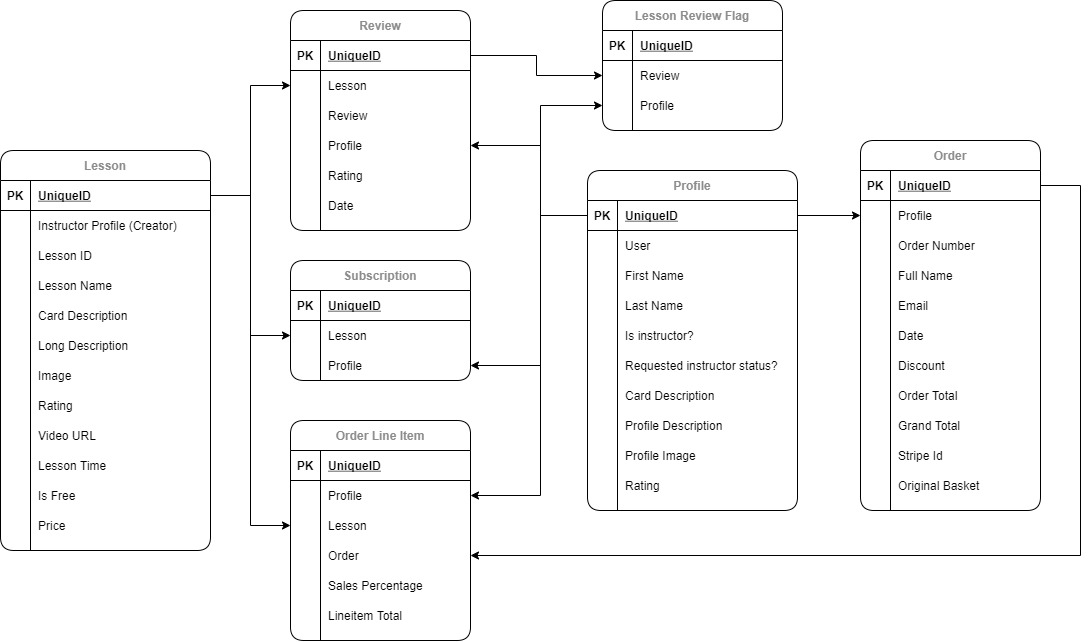
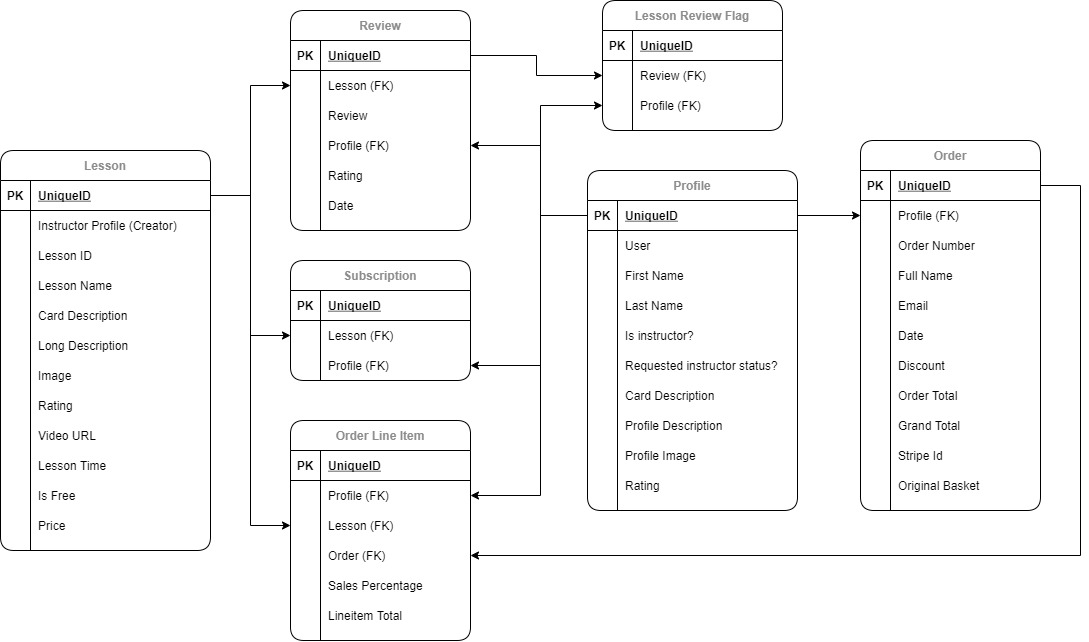
MINOR: Update database map with foreign keys

diff --git a/README.md b/README.md
@@ -421,7 +421,7 @@ Regarging signals, if for any reason an `OrderLineItem` (the database entry that
 
 #### Database
  
- - The database is a postgres relational database, below is the final database map will all features included
+ - For the app I used a postgres relational database, below is the final map with all features included.
 
 ![Database](https://github.com/KelvinHere/Yoga_Milestone_4/blob/master/design/database/db_design.jpg "Database design")
  
